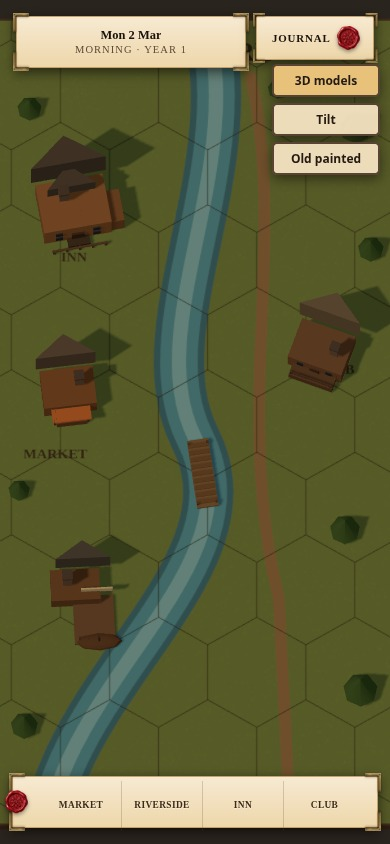
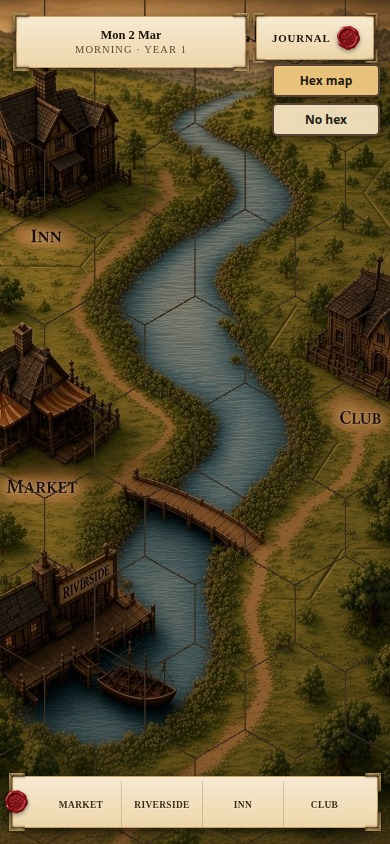
Put the hex look-test back on the last signed-off Lythmere map.
The blocky WebGL scene was a wrong turn. Default is the zoomed-out thin-hex board again.

diff --git a/mockups/lythmere-hex-screen/index.html b/mockups/lythmere-hex-screen/index.html
@@ -33,13 +33,8 @@
   }
   .townScene{
     position:absolute;inset:0;z-index:0;
-    background:#3a4a28;
-  }
-  .townScene canvas{display:block;width:100%;height:100%;touch-action:none}
-  .townScene.is-painted{
     background:#2a241e url("./05-empty-aligned.jpg") center / cover no-repeat;
   }
-  .townScene.is-painted canvas{display:none}
   #hudLayer{position:absolute;inset:0;z-index:40;pointer-events:none}
   .worldTopbar{
     position:absolute;left:0;right:0;top:0;z-index:40;
@@ -137,34 +132,19 @@
     </nav>
   </div>
   <div id="paints">
-        <button type="button" data-view="map" aria-pressed="true">3D models</button>
-        <button type="button" data-view="tilt">Tilt</button>
-        <button type="button" data-view="painted">Old painted</button>
+        <button type="button" data-file="./05-empty-aligned.jpg" aria-pressed="true">Hex map</button>
+        <button type="button" data-file="./05-empty-town.jpg">No hex</button>
   </div>
 </section>
-<script type="importmap">
-{
-  "imports": {
-    "three": "./vendor/three.module.js"
-  }
-}
-</script>
-<script type="module">
-import { mountBoard } from "./board3d.js";
-const host = document.getElementById("townScene");
+<script>
+const scene = document.getElementById("townScene");
 const buttons = [...document.querySelectorAll("#paints button")];
-const board = mountBoard(host);
-function show(view){
-  buttons.forEach(b => b.setAttribute("aria-pressed", b.dataset.view === view ? "true" : "false"));
-  if (view === "painted"){
-    host.classList.add("is-painted");
-    return;
-  }
-  host.classList.remove("is-painted");
-  board.setView(view === "tilt" ? "tilt" : "map");
+function paint(file){
+  scene.style.backgroundImage = 'url("' + file + '")';
+  buttons.forEach(b => b.setAttribute("aria-pressed", b.dataset.file === file ? "true" : "false"));
 }
-buttons.forEach(b => b.addEventListener("click", () => show(b.dataset.view)));
-show(new URLSearchParams(location.search).get("view") || "map");
+buttons.forEach(b => b.addEventListener("click", () => paint(b.dataset.file)));
+paint("./05-empty-aligned.jpg");
 </script>
 </body>
 </html>

diff --git a/mockups/lythmere-hex-screen/README.md b/mockups/lythmere-hex-screen/README.md
@@ -1,7 +1,5 @@
 # Full-screen hex Lythmere (look-test)
 
-Real WebGL 3D: a **flat felt hex slab** with **mesh buildings** sitting on it (Inn, Market, Club, Riverside). Drag to orbit; Tilt to see them stand off the board.
+Last version Marc signed off: zoomed-out Lythmere, thin aligned hexes, no NPCs.
 
-This is not a painting of a diorama.
-
-Open `index.html`. Paints: 3D models / Tilt / Old painted.
+Open `index.html`. That map is the default again.
